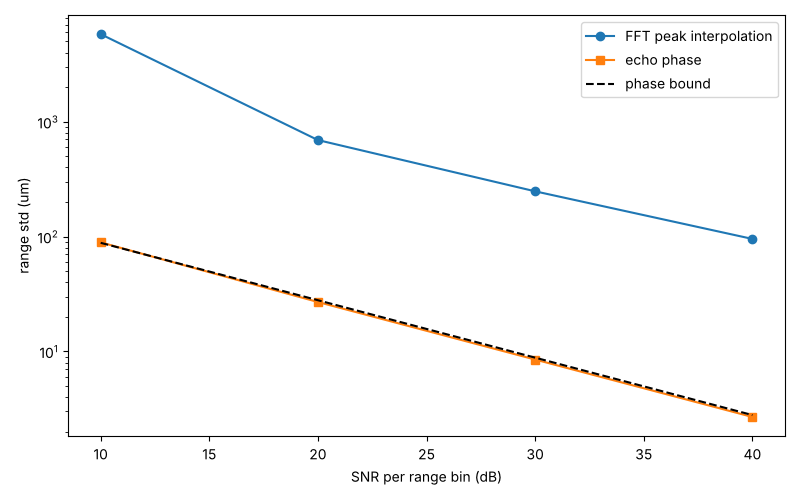
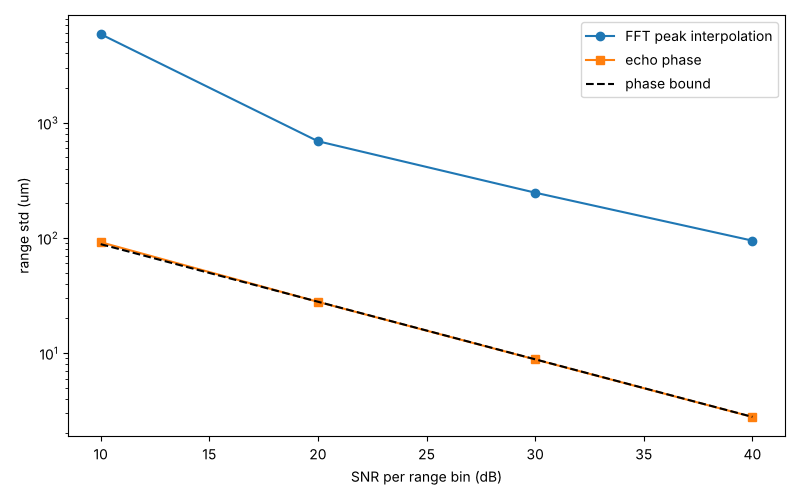
Fix echo carrier phase: fc is the sweep centre, not the start (0.2.2)
cube() set the echo phase to 4*pi*R/lambda(fc) and then added the beat
term 2*pi*fb*t across the whole ADC window, so after the range FFT the
model behaved as if fc were the start of the sweep: Doppler and phase
came out scaled by (fc + B/2)/fc, about 3 % at 60.5 GHz / 4 GHz. A
target at +7 m/s with vmax 4.96 m/s folded to -2.68 m/s instead of -2.91.

The carrier phase now uses the frequency at the first ADC sample,
fc - S*T_adc/2, so the effective carrier is exactly fc.

- ch02/ch08 examples: drop the lambda_eff workaround, use lambda = c/fc
- new regression test for folded Doppler (7, 6, 2 m/s)
- ch19 gantry test: tolerance reflects the 3-lambda elevation aperture
- regenerated gallery images ch02, ch08, ch09, ch16, ch19 and the notebook

Claude-Session: https://claude.ai/code/session_019iTQwvPmkJbB5t1chfVtqe

diff --git a/examples/ch02_phase_iq.py b/examples/ch02_phase_iq.py
@@ -16,16 +16,11 @@ for d in disp:
     iq.append(rp[k])
 iq = np.array(iq)
 phi = np.unwrap(np.angle(iq))
-# With a fixed range bin, the bin phase follows the carrier at the centre of the sampled sweep,
-# fc + S*t_mid, not fc itself: the beat term 2*pi*fb*t adds 4*pi*R*S*t_mid/c. Using fc alone
-# would scale the recovered motion by about 3 % on a 4 GHz sweep.
-t_mid = (r.n_samples - 1) / (2 * r.fs)
-lam_eff = C / (r.fc + r.slope * t_mid)
-est = (phi - phi[0]) * lam_eff / (4 * np.pi) + disp[0]
-est_naive = (phi - phi[0]) * lam / (4 * np.pi) + disp[0]
+# The bin phase follows the carrier at the centre of the sampled sweep (the beat term 2*pi*fb*t adds
+# 4*pi*R*S*t/c across the ramp). The model's fc is that centre frequency, so lambda = c/fc converts directly.
+est = (phi - phi[0]) * lam / (4 * np.pi) + disp[0]
 print(f"wavelength {lam*1e3:.2f} mm, one phase turn per {lam/2*1e3:.2f} mm, {lam/720*1e6:.1f} um per degree")
-print(f"peak phase swing {np.degrees(phi.max()-phi.min())/2:.0f} deg, RMS error of recovered displacement (noise-free model) {np.sqrt(np.mean((est-disp)**2))*1e6:.2f} um "
-      f"(using fc instead of the sweep-centre frequency: {np.sqrt(np.mean((est_naive-disp)**2))*1e6:.1f} um)")
+print(f"peak phase swing {np.degrees(phi.max()-phi.min())/2:.0f} deg, RMS error of recovered displacement (noise-free model) {np.sqrt(np.mean((est-disp)**2))*1e6:.2f} um")
 if not o.no_plot:
     import matplotlib.pyplot as plt
     fig, ax = plt.subplots(1, 2, figsize=(11, 4.5))

diff --git a/radar_sim/fmcw.py b/radar_sim/fmcw.py
@@ -66,6 +66,7 @@ def cube(radar: Radar, targets, seed=0, motion=True):
     """Return complex cube [n_chirps, n_virtual, n_samples]."""
     rng = np.random.default_rng(seed)
     n = np.arange(radar.n_samples) / radar.fs
+    f0 = radar.fc - radar.slope * radar.n_samples / radar.fs / 2   # frequency at the first sample
     virt = radar.virtual()
     ntx, nrx = len(radar.tx), len(radar.rx)
     out = np.zeros((radar.n_chirps, len(virt), radar.n_samples), complex)
@@ -77,7 +78,10 @@ def cube(radar: Radar, targets, seed=0, motion=True):
                 t0 = m * radar.t_frame_chirp + it * radar.t_chirp
                 r = t.r + (t.v * t0 if motion else 0.0)
                 fb = 2 * radar.slope * r / C
-                ph = 4 * np.pi * r / radar.lam
+                # carrier phase at the first ADC sample: the 2*pi*fb*n term below already sweeps
+                # the rest of the ramp, so start at fc - (sampled bandwidth)/2 (ADC window centred on
+                # the ramp); the range FFT then sees an effective carrier of exactly fc
+                ph = 4 * np.pi * r * f0 / C
                 for ir in range(nrx):
                     k = it * nrx + ir
                     d = virt[k]

diff --git a/tests/test_fmcw_doppler.py b/tests/test_fmcw_doppler.py
@@ -1,0 +1,15 @@
+import numpy as np
+from radar_sim import fmcw as F
+
+
+def test_doppler_uses_centre_frequency():
+    """A folded velocity must land where fc (centre) predicts, not at (fc + B/2)."""
+    rad = F.Radar(fc=60.5e9, bw=4e9, tc=100e-6, fs=2.56e6, n_samples=256, n_chirps=64, t_idle=150e-6,
+                  noise_dbfs=-60, rx=np.array([[0.0, 0.0]]))
+    for v in (7.0, 6.0, 2.0):
+        p = (np.abs(F.doppler_fft(F.range_fft(F.cube(rad, [F.Target(r=5.0, v=v)])))) ** 2).sum(1)
+        d, rb = np.unravel_index(p.argmax(), p.shape)
+        y0, y1, y2 = np.log(p[d - 1, rb]), np.log(p[d, rb]), np.log(p[(d + 1) % p.shape[0], rb])
+        vel = (d + 0.5 * (y0 - y2) / (y0 - 2 * y1 + y2) - rad.n_chirps / 2) * rad.v_res
+        exp = (v + rad.v_max) % (2 * rad.v_max) - rad.v_max
+        assert abs(vel - exp) < 0.02, (v, vel, exp)

diff --git a/tests/test_examples.py b/tests/test_examples.py
@@ -58,7 +58,9 @@ def test_ch17_mvdr_null():
 def test_ch19_gantry_height():
     zs = [float(z) for x, y, z in re.findall(r"x\s+([-+\d.]+)\s+y\s+([\d.]+)\s+z\s+([\d.]+)", run("ch19_4d_point_cloud.py"))
           if float(y) > 28]
-    assert zs and all(5.0 < z < 6.2 for z in zs)
+    # true height 5.5 m; three gantry scatterers share range cells and the elevation aperture is only 3 lambda,
+    # so each point lands within about a metre (about 2 deg of elevation at 30 m)
+    assert zs and all(4.5 < z < 6.5 for z in zs) and abs(sum(zs) / len(zs) - 5.5) < 0.3
 
 
 def test_ch20_resolution():

diff --git a/examples/ch08_phase_precision.py b/examples/ch08_phase_precision.py
@@ -24,10 +24,8 @@ def measure(r, snr_db, frames, r0=1.5, seed=0):
         a, b, c = m[k - 1], m[k], m[k + 1]
         d = 0.5 * (a - c) / (a - 2 * b + c)
         rng_pk.append((k + d) * rr.range_res); ph.append(np.angle(x[k0]))
-    t_mid = (rr.n_samples - 1) / (2 * rr.fs)
-    lam_eff = C / (rr.fc + rr.slope * t_mid)
     ph = np.unwrap(np.array(ph))
-    return rr, np.std(rng_pk), np.std(ph) * lam_eff / (4 * np.pi)
+    return rr, np.std(rng_pk), np.std(ph) * rr.lam / (4 * np.pi)   # fc is the sweep centre
 
 
 if __name__ == "__main__":

diff --git a/radar_sim/__init__.py b/radar_sim/__init__.py
@@ -8,4 +8,4 @@ from .fmcw import (C, Radar, Target, cube, db, range_fft, doppler_fft, rd_map, a
 from .pipeline import (ca_cfar_2d, peaks_2d, doppler_dft_at, angle_fft_all, angle_dft_at, angle_split_phase,
                        op_counts, tdm_phase_comp, beam_monopulse, KalmanCV, Tracker)
 
-__version__ = "0.2.1"
+__version__ = "0.2.2"
